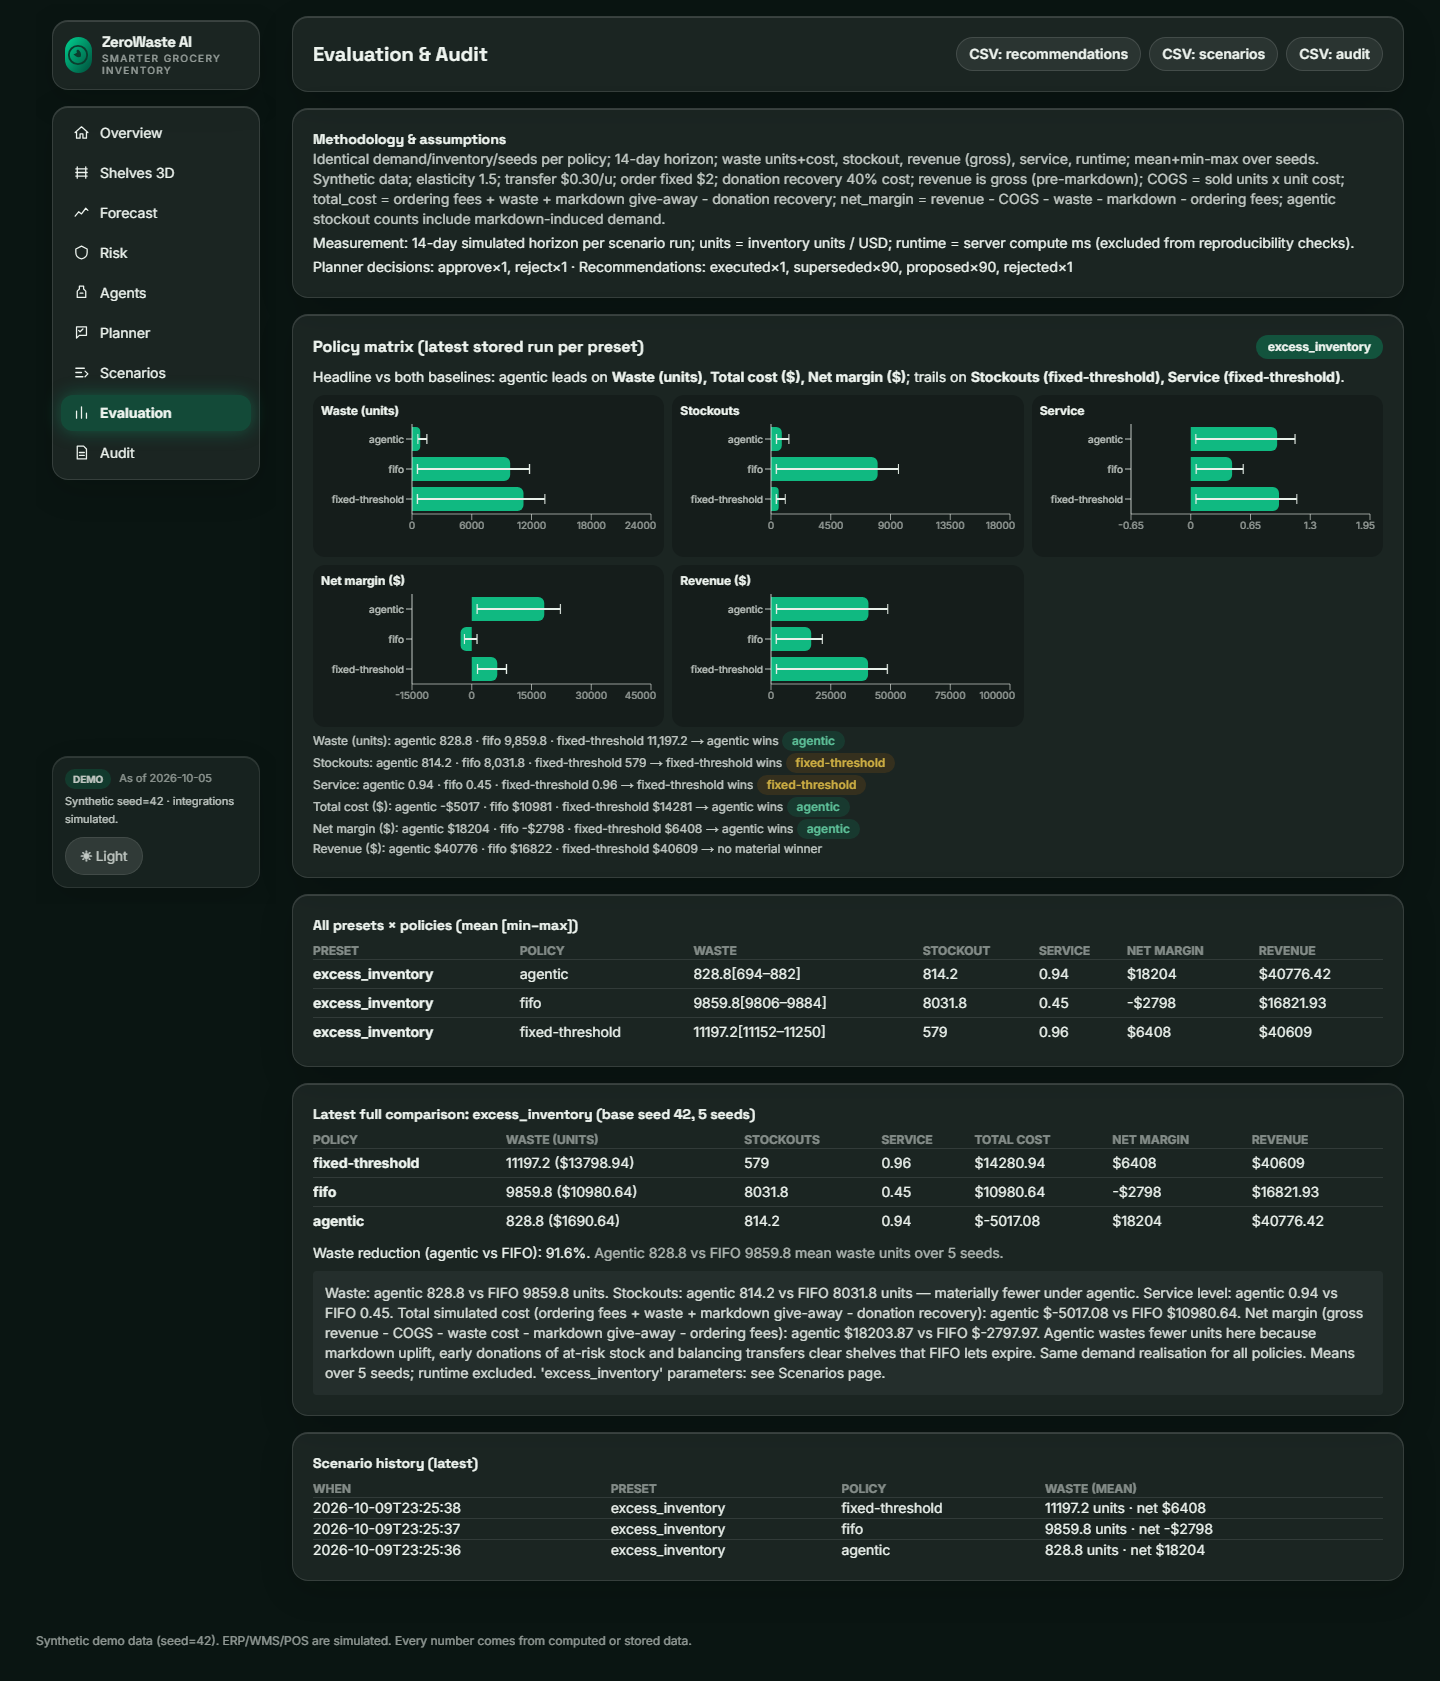
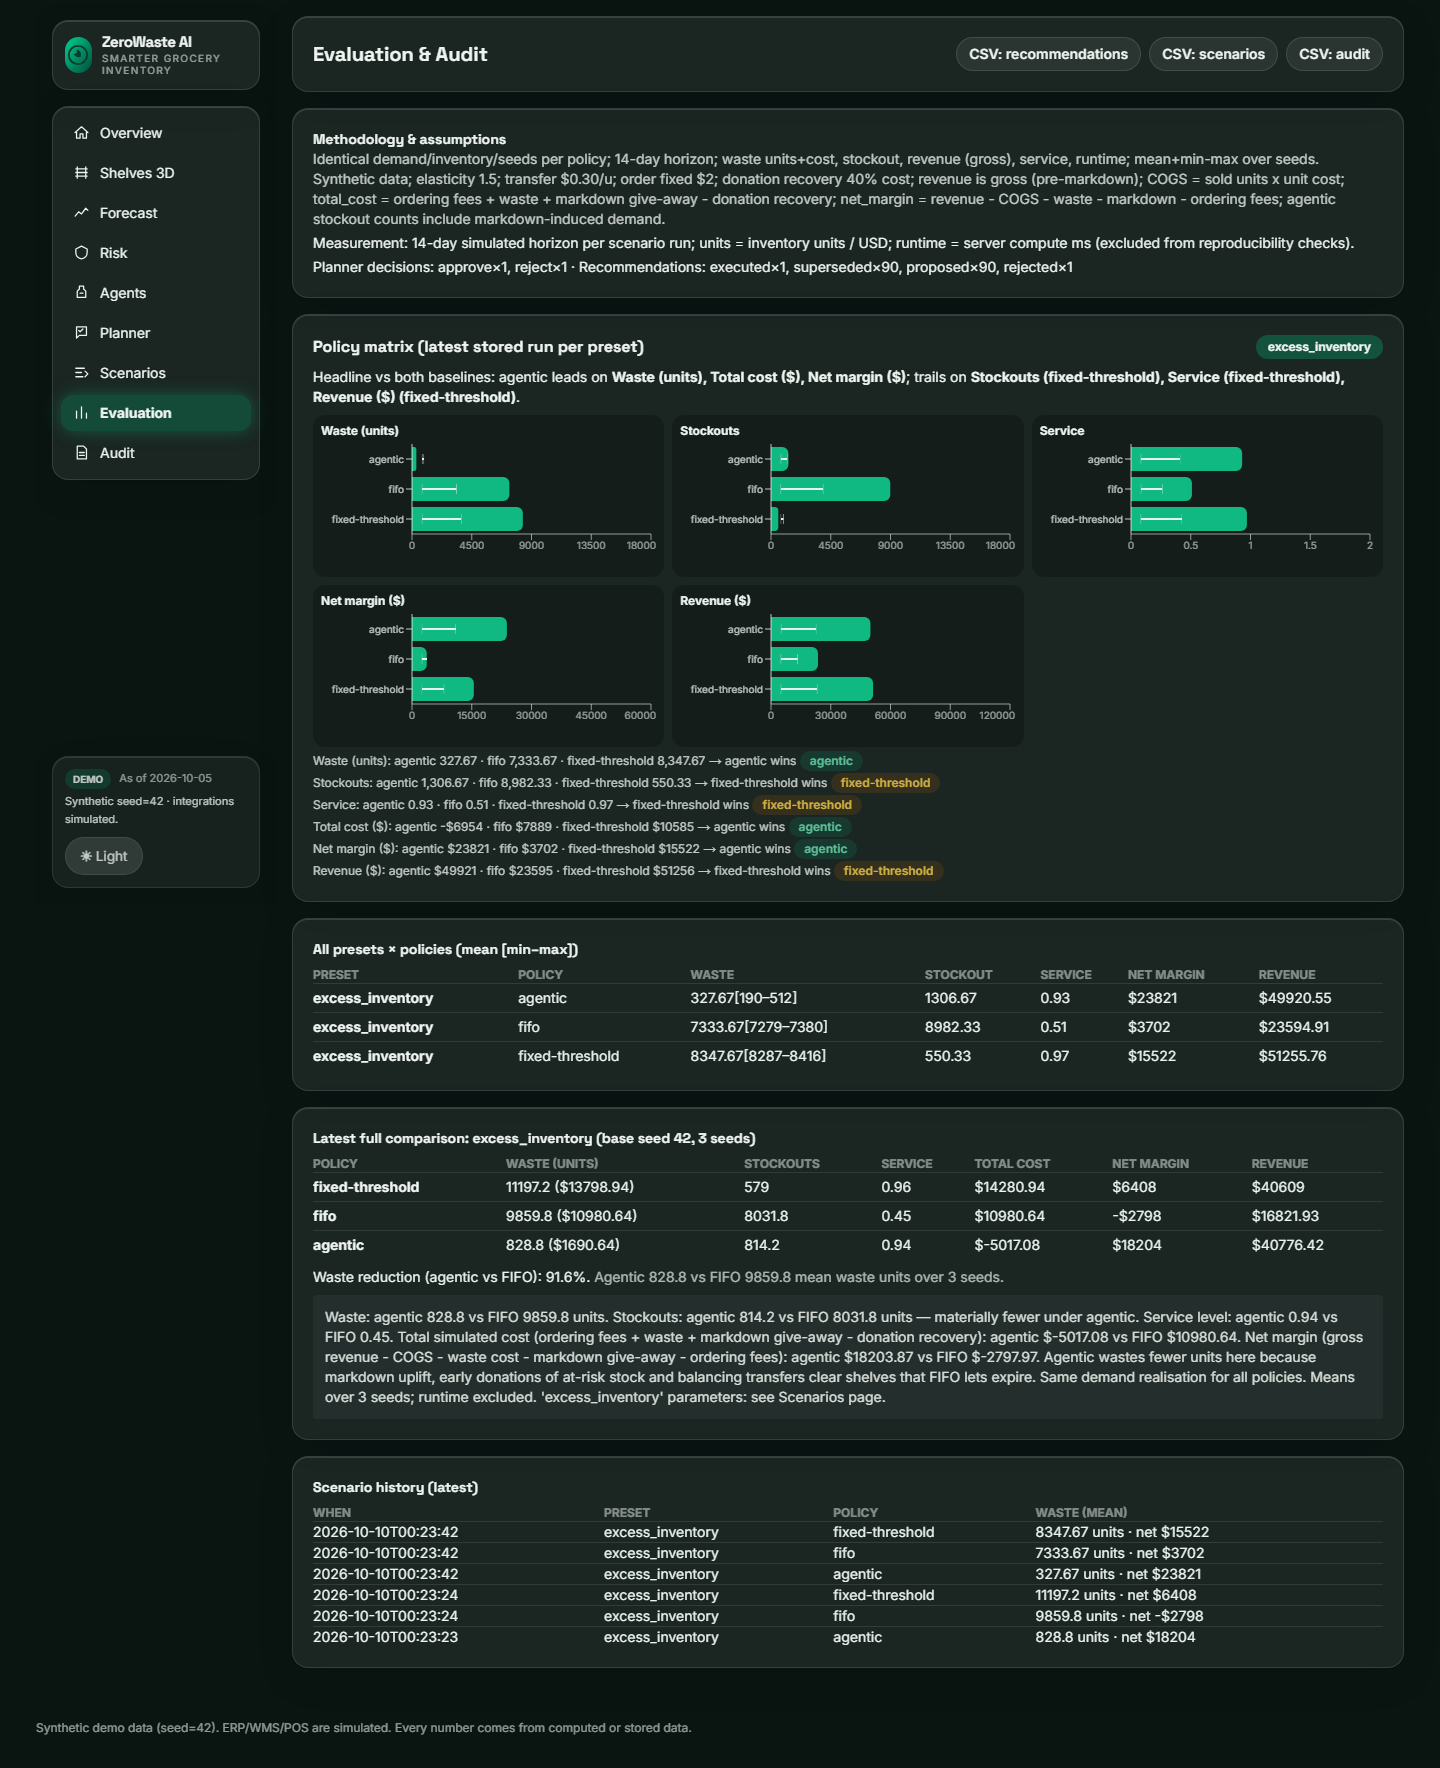
Fail-closed auth, refreshed results, docs and screenshots

diff --git a/frontend/playwright.config.ts b/frontend/playwright.config.ts
@@ -20,6 +20,7 @@ export default defineConfig({
       timeout: 90000,
       env: {
         AS_OF: "2026-10-05",
+        DEMO_MODE: "true",
         DATABASE_URL: process.env.E2E_DATABASE_URL ?? "postgresql://postgres:postgres@127.0.0.1:5434/zerowaste_e2e",
       },
     },

diff --git a/backend/tests/test_auth.py b/backend/tests/test_auth.py
@@ -1,0 +1,66 @@
+"""Auth boot gates: the app fails closed unless explicitly demo or properly keyed.
+
+Subprocess tests prove import-time refusal with a clean environment (no ambient
+DEMO_MODE/API_KEY leaking in). The 401/200 test monkeypatches config live.
+"""
+import os
+import subprocess
+import sys
+
+_BACKEND = os.path.join(os.path.dirname(__file__), "..")
+_SCRUB = ("DEMO_MODE", "API_KEY", "PRODUCTION", "VERCEL",
+          "DATABASE_URL", "TEST_DATABASE_URL", "AS_OF")
+
+
+def _boot(env_extra):
+    env = {k: v for k, v in os.environ.items() if k not in _SCRUB}
+    env.update(env_extra)
+    return subprocess.run(
+        [sys.executable, "-c", "from app.main import app"],
+        cwd=_BACKEND, env=env, capture_output=True, text=True, timeout=180,
+    )
+
+
+def test_boot_refused_without_key():
+    r = _boot({"DEMO_MODE": "false"})
+    assert r.returncode != 0, "booted with DEMO_MODE=false and no API_KEY"
+    assert "API_KEY" in r.stderr
+
+
+def test_boot_refused_with_default_key():
+    r = _boot({"DEMO_MODE": "false", "API_KEY": "demo-key-123"})
+    assert r.returncode != 0, "booted with the public default key"
+    assert "demo-key-123" in r.stderr
+
+
+def test_boot_refused_demo_in_production():
+    r = _boot({"PRODUCTION": "1", "DEMO_MODE": "true"})
+    assert r.returncode != 0, "booted with DEMO_MODE=true under PRODUCTION=1"
+    assert "DEMO_MODE" in r.stderr
+
+
+def test_boot_refused_demo_on_vercel():
+    r = _boot({"VERCEL": "1", "DEMO_MODE": "true"})
+    assert r.returncode != 0, "booted with DEMO_MODE=true on Vercel"
+    assert "DEMO_MODE" in r.stderr
+
+
+def test_boot_ok_explicit_demo():
+    r = _boot({"DEMO_MODE": "true"})
+    assert r.returncode == 0, r.stderr[-800:]
+
+
+def test_401_without_key_200_with_key():
+    from fastapi.testclient import TestClient
+    from app.main import app
+    from app import config
+    old_demo, old_key = config.DEMO_MODE, config.API_KEY
+    config.DEMO_MODE, config.API_KEY = False, "test-key-abc-123"
+    try:
+        c = TestClient(app)
+        assert c.get("/api/stores").status_code == 401
+        assert c.get("/api/stores", headers={"X-API-Key": "wrong"}).status_code == 401
+        ok = c.get("/api/stores", headers={"X-API-Key": "test-key-abc-123"})
+        assert ok.status_code == 200
+    finally:
+        config.DEMO_MODE, config.API_KEY = old_demo, old_key

diff --git a/backend/app/config.py b/backend/app/config.py
@@ -1,8 +1,9 @@
-"""Central config: env-driven, Demo Mode default, no secrets in code.
+"""Central config: env-driven, fail-closed auth, no secrets in code.
 
-Database is Postgres via DATABASE_URL (Supabase/Neon pooled URL in production,
-local server for dev/tests). Tests MUST use TEST_DATABASE_URL (a different
-database); see backend/tests/conftest.py which enforces this.
+Demo mode is opt-in (DEMO_MODE=true, local only). Anything else requires a
+real API_KEY; production/VERCEL + DEMO_MODE=true refuses to start.
+Database is Postgres via DATABASE_URL. Tests MUST use TEST_DATABASE_URL;
+see backend/tests/conftest.py which enforces this.
 """
 from __future__ import annotations
 import os
@@ -10,8 +11,23 @@ from dotenv import load_dotenv
 
 load_dotenv()
 
-DEMO_MODE = os.getenv("DEMO_MODE", "true").lower() == "true"
-API_KEY = os.getenv("API_KEY", "demo-key-123")
+DEMO_MODE = os.getenv("DEMO_MODE", "false").lower() == "true"
+API_KEY = os.getenv("API_KEY", "")
+PRODUCTION = os.getenv("PRODUCTION", "0") == "1"
+_ON_VERCEL = bool(os.getenv("VERCEL"))
+
+DEFAULT_API_KEY = "demo-key-123"
+if (PRODUCTION or _ON_VERCEL) and DEMO_MODE:
+    raise RuntimeError(
+        "Refusing to start: DEMO_MODE=true is not allowed when PRODUCTION=1 "
+        "or running on Vercel. Set DEMO_MODE=false (and a real API_KEY)."
+    )
+if not DEMO_MODE and (not API_KEY or API_KEY == DEFAULT_API_KEY):
+    raise RuntimeError(
+        "Refusing to start: set a real API_KEY environment variable when "
+        "DEMO_MODE is false; the default 'demo-key-123' is public. "
+        "Local demos opt in with DEMO_MODE=true."
+    )
 DATABASE_URL = os.getenv("DATABASE_URL", "postgresql://postgres:postgres@127.0.0.1:5434/zerowaste")
 TEST_DATABASE_URL = os.getenv("TEST_DATABASE_URL", "postgresql://postgres:postgres@127.0.0.1:5434/zerowaste_test")
 GEMINI_API_KEY = os.getenv("GEMINI_API_KEY", "")
@@ -23,6 +39,5 @@ _front = os.getenv("FRONTEND_ORIGIN", "http://localhost:3000,http://127.0.0.1:30
 CORS_ORIGINS = [o.strip() for o in _front.split(",") if o.strip()]
 assert all(o != "*" for o in CORS_ORIGINS), "FRONTEND_ORIGIN must never be '*'"
 
-PRODUCTION = os.getenv("PRODUCTION", "0") == "1"
 SEED = 42
 AUTO_SEED = os.getenv("AUTO_SEED", "true").lower() == "true"

diff --git a/README.md b/README.md
@@ -4,10 +4,11 @@ GDGoC HITAM Agentic AI Hackathon — Problem Statement 2: Zero-Waste Grocery.
 End-to-end: synthetic seed (42) → forecast → spoilage risk → 5 agents + coordinator → planner approve → simulated execution → scenario evaluation.
 
 ## Quickstart
-Backend (FastAPI, SQLite zero-config):
+Backend (FastAPI, Postgres, fail-closed auth — local demos opt in):
 ```bash
 cd zerowaste-ai/backend
 pip install -r requirements.txt
+export DEMO_MODE=true   # required locally: without it the app refuses to start
 python -c "from app.seed import seed_all; print(seed_all(42))"
 python -m uvicorn app.main:app --host 127.0.0.1 --port 8000
 ```
@@ -26,7 +27,7 @@ the 18 route+method pairs the UI uses (unknown → 404, wrong method → 403);
 `npm run scan:secrets` (fails if the canary appears in `.next/static`).
 
 ## What's implemented vs simulated
-- Implemented: SES vs 7-day MA vs seasonal-naive forecasting with held-out MAE/WAPE and honest winner (SES stays the engine model); FIFO spoilage engine with risk bands + day_offset time-travel (`GET /api/risk?day_offset=N`); 5 deterministic agents + coordinator constraints incl. the markdown guard (no markdown without at-risk units or when a stock-out is projected before expiry; guard outcomes shown in "Why this action?"); one open proposal per (store, SKU) — re-runs supersede older undecided rows (kept as `superseded`, hidden from the Planner queue); planner approve/reject/qty-edit/bulk/execute via decision modal (body portal); rolling-horizon scenario sim (re-forecast on history through yesterday with enforced cutoff, daily risk/scoring/coordination, lead times + MOQs, identical demand realisation); scenario calibration endpoint (days-of-cover, horizon, FIFO snapshot); evaluation/audit/CSV; glass UI + 3D hero + realistic 3D store explorer + replay diff.
+- Implemented: per-series best of seasonal-naive, moving average and SES on the held-out week as the forecast engine (all three reported with MAE/WAPE and the honest winner); FIFO spoilage engine with risk bands + day_offset time-travel (`GET /api/risk?day_offset=N`); 5 deterministic agents + coordinator constraints incl. the markdown guard (no markdown without at-risk units or when a stock-out is projected before expiry; guard outcomes shown in "Why this action?"); one open proposal per (store, SKU) — re-runs supersede older undecided rows (kept as `superseded`, hidden from the Planner queue); planner approve/reject/qty-edit/bulk/execute via decision modal (body portal); rolling-horizon scenario sim (re-forecast on history through yesterday with enforced cutoff, daily risk/scoring/coordination, lead times + MOQs, identical demand realisation); scenario calibration endpoint (days-of-cover, horizon, FIFO snapshot); evaluation/audit/CSV; glass UI + 3D hero + realistic 3D store explorer + replay diff.
 - Simulated (labelled in UI): ERP/WMS/POS integrations, execution effects, CO2e (2.5 kg/kg assumption), Gemini explanations (template in Demo Mode; key stays server-side via `GEMINI_API_KEY`).
 
 ## Data (seed=42 for randomness, dates relative to reset)
@@ -36,14 +37,14 @@ the 18 route+method pairs the UI uses (unknown → 404, wrong method → 403);
 - Backend: `pytest tests/ -v` — 20 passed (M1 workflow incl. auth gate, approve/reject, reproducibility, constraints; supersede + exact-cover; day_offset recompute, past-expiry guard, waste n/a rule, metric-keys/definitions identity, trace-sums conservation, rolling no-look-ahead, markdown guard case, AS_OF override, calibration ratios, audit objects/counts, scenario overrides, seeded history, auto-seed).
 - Frontend: `npm run lint`, `npx tsc --noEmit`, `npm run build` — all clean.
 - E2E: `npx playwright test` — serial (`workers: 1`, one shared DB, backend `AS_OF=2026-10-05`) across desktop, mobile, full-Chromium and 360px projects: UI seed → run agents → modal approve + reject → execute → reject-400 → supersede uniqueness → scenario reproducibility → evaluation/audit → reload persistence → 3D + backend time-travel → draw-call budget (≤200, desktop) → fallbacks → proxy allow/block contract → "As of" header. Zero console errors on all 9 routes. Screenshots: `npx playwright test --project=desktop e2e/shots.spec.ts` → `docs/screenshots/`.
-- Docs: `docs/DEPLOY.md` (Render + Vercel, SQLite disk vs Postgres port note), `docs/DEMO_SCRIPT.md` (2-minute journey), screenshots referenced from `SLIDES.md`.
+- Docs: `docs/DEPLOY.md` (Vercel backend + frontend, Postgres env vars), `docs/DEMO_SCRIPT.md` (2-minute journey), screenshots referenced from `SLIDES.md`.
 
 ## Scenario honesty rules
 - Waste-reduction % shows `n/a (baseline waste ~ 0)` when FIFO mean waste < 10 units; absolutes always beside it.
-- Results are mixed and shown as-is, e.g. excess_inventory ≈ −86% waste (agentic better), demand_spike can be unfavourable for agentic on waste (baseline-calibrated ordering into a transient spike; verified with a day-by-day trace in `backend/scripts/trace_spike.py`) while winning on net margin, supplier_delay hurts every policy on service. Runtime excluded from reproducibility checks.
+- Results are mixed and shown as-is, e.g. excess_inventory ≈ −92% waste for agentic vs FIFO (769 vs 9858 units, 5 seeds), demand_spike waste is unfavourable for agentic (369 vs FIFO 13) while its margin leads FIFO ($23,198 vs $7,089), supplier_delay service trails fixed-threshold narrowly (0.85 vs 0.86). Runtime excluded from reproducibility checks.
 - Accounting (see Evaluation page): revenue is gross (pre-markdown); COGS = sold × unit cost; ordering fees = fixed order fees + transfer costs (purchase of ordered units tracked separately as `purchase_cost`); total_cost = fees + waste + markdown − donation recovery; net_margin = revenue − COGS − waste − markdown − fees. Stockout "fewer/more" claims in notes require a material gap (≥10 units and ≥2%).
 
-## Deployment
+## Deployment (Vercel only)
 - Frontend → Vercel (`frontend/vercel.json`); set server-only `ZEROWASTE_API_BASE` to the backend URL (+ `ZEROWASTE_API_KEY`, `ADMIN_TOKEN` as needed). No `NEXT_PUBLIC_API_*` exists by design.
-- Backend → Render (`backend/render.yaml`): `uvicorn app.main:app --host 0.0.0.0 --port $PORT`, persistent disk for `DATABASE_PATH` (auto-seeds when empty).
+- Backend → Vercel (FastAPI, `backend/vercel.json` entrypoint `app/main.py`, Postgres via `DATABASE_URL`, `maxDuration: 60`, fail-closed auth: `DEMO_MODE` defaults false, production refuses demo mode).
 - No live URLs claimed — deploy, verify, then replace `[INSERT DEPLOYED URL]`.

diff --git a/SLIDES.md b/SLIDES.md
@@ -1,16 +1,21 @@
 # Hackathon slides — ZeroWaste AI (placeholders must be filled, never invented)
 1. Problem: perishable waste + stockouts; variable shelf life; siloed decisions.
 2. Solution: 5 deterministic agents + coordinator → exactly one proposed action per SKU/store → planner approves in a decision modal → simulated execution with stock re-check.
-3. Architecture: Next.js 16 + R3F frontend → FastAPI agents (SES forecast, FIFO risk, scoring, constraints) → SQLite demo DB (Supabase-ready schema); Gemini explains only. [INSERT ARCH DIAGRAM]
+3. Architecture: Next.js 16 + R3F frontend → FastAPI agents (per-series best-of-3 forecast, FIFO risk, scoring, constraints) → Postgres demo DB; Gemini explains only. [INSERT ARCH DIAGRAM]
 4. Prototype (real captures in docs/screenshots/, taken with Playwright on desktop Chromium):
-   - docs/screenshots/01-overview-hero.png — 3D hero orb + live chips (expiring 48h, 7d forecast, pending approvals)
+   - docs/screenshots/01-overview-hero.png — cutaway shelf hero + live chips (expiring 48h, 7d forecast, pending approvals)
    - docs/screenshots/02-explorer-3d.png — isometric shelves coloured by backend risk
    - docs/screenshots/03-planner-modal.png — decision modal (qty edit within safe bounds, recorded reason)
    - docs/screenshots/04-scenarios.png — 3-policy comparison with mean + min–max
    - docs/screenshots/05-evaluation.png — latest comparison + trade-off note
    - docs/screenshots/06-agents.png — agent status + trace timeline
    [INSERT GITHUB URL]; Live [INSERT DEPLOYED URL] (only if verified accessible).
-5. Functionality (measured, seed=42): 5 stores × 18 SKUs × 12 weeks; SES vs 7-day MA vs seasonal-naive on the same held-out 7d with honest winner (SES stays the engine); FIFO risk bands with backend day_offset; markdown guard (never without at-risk units / before-expiry stock-out); markdown 10/20/30/50% (elasticity 1.5), donate (≥1d shelf), transfer (quantified need), replenish (MOQ/lead-time); one open proposal per pair via supersede; rolling-horizon scenarios (re-forecast daily, no look-ahead) sharing identical demand/inventory/seeds; calibration panel (days-of-cover vs 14d horizon).
-6. Results (example, 5 seeds): excess_inventory — agentic 505 vs FIFO 3509 waste units (~86% less); supplier_delay — agentic 105 vs FIFO 289 waste units but service only 0.35 (honest trade-off); demand_spike can be unfavourable for agentic on waste (baseline-calibrated ordering into a transient spike; coordinator minimises cost, not waste). Evaluation page carries formulas, period (14-day horizon), units, assumptions, side-by-side costs.
+5. Functionality (measured, seed=42): 5 stores × 18 SKUs × 12 weeks; per-series best of seasonal-naive, moving average and SES on the same held-out 7d with honest winner (winner counts: seasonal-naive 56, SES 18, 7-day MA 16 of 90 series); FIFO risk bands with backend day_offset; markdown guard (never without at-risk units / before-expiry stock-out); markdown 10/20/30/50% (elasticity 1.5), donate (≥1d shelf), transfer (quantified need), replenish (MOQ/lead-time); one open proposal per pair via supersede; rolling-horizon scenarios (re-forecast daily, no look-ahead) sharing identical demand/inventory/seeds; calibration panel (days-of-cover vs 14d horizon).
+6. Results (5 seeds, synthetic data — waste units / stockouts / service / net margin, agentic vs FIFO vs fixed-threshold):
+   - baseline: 499 / 1092 / 0.93 / $18,475 vs 291 / 9143 / 0.37 / $6,438 vs 2390 / 177 / 0.99 / $15,894.
+   - demand_spike: 369 / 1881 / 0.90 / $23,198 vs 13 / 12396 / 0.32 / $7,089 vs 1230 / 22 / 1.00 / $23,508. Agentic loses on waste and trails fixed-threshold on margin and service here.
+   - excess_inventory: 769 / 833 / 0.94 / $18,309 vs 9858 / 8038 / 0.45 / −$2,805 vs 11215 / 584 / 0.96 / $6,328.
+   - supplier_delay: 215 / 2196 / 0.85 / $17,096 vs 291 / 9143 / 0.37 / $6,438 vs 1447 / 2022 / 0.86 / $14,548. Service essentially tied with fixed-threshold.
+   Action mix across the 90 proposals: replenish 57, donate 14, no-action 18, transfer 1, markdown 0 — markdown is built and scored but the guard fires it rarely. Evaluation page carries formulas, period (14-day horizon), units, assumptions, side-by-side costs.
 7. Feasibility: synthetic + labelled simulations; 20 backend tests, lint/tsc/build clean, canary bundle scan clean, Playwright E2E across desktop/mobile/full-Chromium/360px with zero console errors; Demo Mode needs no keys; CORS covers localhost + 127.0.0.1; proxy allowlist (unknown → 404, wrong method → 403, prod seed gate).
 8. Viability/Scalability: modular agents, schema + APIs support more stores/SKUs/agents; no secrets client-side; decision modal with safe-bound qty edits and audit trail.
